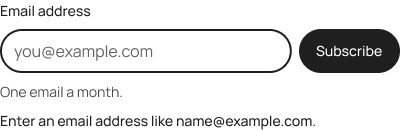
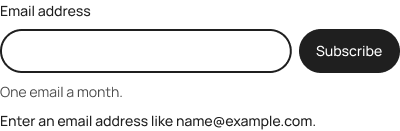
Field: no placeholders in examples, chars, prefix and suffix, optional, read-only

Changed region(s): [[0.03, 0.3359, 0.39, 0.458]]

diff --git a/src/react/primitives/Field.stories.tsx b/src/react/primitives/Field.stories.tsx
@@ -19,10 +19,18 @@ const meta = {
     },
     control: { control: "inline-radio", options: ["input", "textarea", "select"] },
     required: { control: "boolean" },
+    optional: { control: "boolean", description: "Marks the label (optional). Mark the minority of a form's fields." },
+    readOnly: { control: "boolean", description: "Readable, focusable, submitted, not editable. Prefer it to disabled when the value matters." },
+    prefix: { control: "text", description: "A short unit before the input; aria-hidden, so say it in the label too." },
+    suffix: { control: "text", description: "A short unit after the input; aria-hidden, so say it in the label too." },
+    chars: { control: "select", options: [undefined, 2, 3, 4, 5, 10, 20, 30], description: "Expected answer length in characters; sizes the control. Unset fills the container." },
     hint: { control: "text" },
     error: { control: "text" },
   },
-  args: { label: "Organisation", placeholder: "Acme Design Systems Group" },
+  /* No placeholder anywhere in these stories, on purpose: a placeholder
+     vanishes as soon as someone types, is not read by every screen reader and
+     usually fails contrast. Where the format needs explaining, that is a hint. */
+  args: { label: "Organisation" },
 } satisfies Meta<typeof Field>;
 
 export default meta;
@@ -101,17 +109,81 @@ export const Disabled: Story = {
 export const States: Story = {
   render: () => (
     <div data-shell="stack" data-gap="5" style={{ maxInlineSize: "26rem" }}>
-      <Field label="Default" placeholder="Placeholder" />
+      <Field label="Default" />
       <Field label="With hint" hint="Hint sits under the control." />
       <Field label="With error" defaultValue="bad" error="This field is required." />
+      <Field label="Optional" optional />
+      <Field label="Read-only" readOnly defaultValue="Can be read, not changed" hint="Set by your organisation." />
       <Field label="Disabled" disabled defaultValue="Locked" />
+    </div>
+  ),
+};
+
+/**
+ * The box is as big as the answer.
+ */
+export const Widths: Story = {
+  name: "Width by expected answer",
+  parameters: {
+    docs: {
+      description: {
+        story:
+          "`chars` sizes the control to the answer it expects: the box's size is a hint about the answer's size, so a year field that spans the page reads as asking for more than a year. Measured in the control's own font (ch), so it follows the pack. Leave it unset for answers of no fixed length (a name, an email address), which fill the container. Never wider than the container, so a phone stays usable.",
+      },
+    },
+  },
+  render: () => (
+    <div data-shell="stack" data-gap="5" style={{ maxInlineSize: "32rem" }}>
+      <Field label="Year of birth" chars={4} inputMode="numeric" autoComplete="bday-year" />
+      <Field label="Card security code" hint="The last 3 digits on the back of the card." chars={3} inputMode="numeric" autoComplete="cc-csc" />
+      <Field label="Postcode" chars={10} autoComplete="postal-code" />
+      <Field label="Phone number" chars={20} type="tel" autoComplete="tel" />
+      <Field label="Email address" type="email" autoComplete="email" />
+    </div>
+  ),
+};
+
+/**
+ * Units, attached to the input but outside it.
+ */
+export const PrefixSuffix: Story = {
+  name: "Prefix and suffix",
+  parameters: {
+    docs: {
+      description: {
+        story:
+          "`prefix` and `suffix` put a short unit beside the input: attached, sharing one outline, but a separate box on the sunken ground. They are hidden from screen readers so the unit is not read as part of the value, which is why each label here says the unit in words too. Keep them to a symbol or a short unit; anything longer is a hint.",
+      },
+    },
+  },
+  render: () => (
+    <div data-shell="stack" data-gap="5" style={{ maxInlineSize: "32rem" }}>
+      <Field label="Price, in dollars" prefix="$" chars={10} inputMode="decimal" />
+      <Field label="Weight, in kilograms" suffix="kg" chars={5} inputMode="decimal" />
+      <Field label="Discount, as a percentage" suffix="%" chars={3} inputMode="numeric" error="Enter a number from 0 to 100." />
+      <Field label="Website" prefix="https://" type="url" autoComplete="url" />
+    </div>
+  ),
+};
+
+/* For Figma: a price with a prefix and a weight with a suffix, at 320. */
+export const OnionSkinAffix: Story = {
+  name: "Onion skin: prefix and suffix (Figma)",
+  parameters: {
+    docs: { description: { story: "A prefixed and a suffixed field at 320px, for the Figma FieldAffix component to be laid over." } },
+    onion: { component: "FieldAffix", target: "root", skin: () => "default.png" },
+  },
+  render: () => (
+    <div data-shell="stack" data-gap="5" style={{ inlineSize: 320 }}>
+      <Field label="Price, in dollars" prefix="$" chars={10} />
+      <Field label="Weight, in kilograms" suffix="kg" chars={5} />
     </div>
   ),
 };
 
 export const OnionSkin: Story = {
   name: "Onion skin (Figma)",
-  args: { label: "Label", placeholder: "Placeholder" },
+  args: { label: "Label" },
   argTypes: { disabled: { control: "boolean" }, invalid: { control: "boolean" } } as never,
   parameters: {
     docs: { description: { story: "The Figma component laid over this one, at the 320px width the design was drawn at. Switch Onion in the toolbar; control, invalid and disabled pick the skin." } },

diff --git a/src/css/components/field.css b/src/css/components/field.css
@@ -44,6 +44,85 @@
     font-size: var(--tk-size-base);
   }
 
+  /* Width by expected answer.
+     data-chars=2|3|4|5|10|20|30 on the control.
+     The box's size is a hint about the answer's size (GOV.UK's fixed widths,
+     from the ds-corpus input brief). Measured in ch, the width of a zero in
+     the control's own font, so it follows the pack's type; plus the padding
+     and border the control already has. Never wider than its container. */
+  :where([data-tk="input"][data-chars], [data-tk="textarea"][data-chars], [data-tk="select"][data-chars]) {
+    inline-size: calc(var(--_chars) * 1ch + 2 * var(--tk-space-3) + 2px);
+    max-inline-size: 100%;
+  }
+  /* A select also carries its arrow. */
+  :where([data-tk="select"][data-chars]) {
+    inline-size: calc(var(--_chars) * 1ch + 2 * var(--tk-space-3) + 2px + 1.5rem);
+  }
+  :where([data-chars="2"]) { --_chars: 2; }
+  :where([data-chars="3"]) { --_chars: 3; }
+  :where([data-chars="4"]) { --_chars: 4; }
+  :where([data-chars="5"]) { --_chars: 5; }
+  :where([data-chars="10"]) { --_chars: 10; }
+  :where([data-chars="20"]) { --_chars: 20; }
+  :where([data-chars="30"]) { --_chars: 30; }
+
+  /* --- prefix and suffix -------------------------------------------------
+     data-tk="field-control" > [field-affix data-side=prefix] input [field-affix data-side=suffix]
+     The unit is attached to the input but is not inside it: it is a separate
+     box with the input's border, on the sunken ground, aria-hidden so a
+     screen reader does not read "$" as part of the value (GOV.UK's reason for
+     putting it outside; the ds-corpus input brief). The pair shares one
+     outline: the outer corners round, the corners where they meet are square. */
+  :where([data-tk="field-control"]) {
+    display: flex;
+    align-items: stretch;
+    max-inline-size: 100%;
+  }
+
+  :where([data-tk="field-control"] > [data-tk="input"], [data-tk="field-control"] > [data-tk="select"]) {
+    flex: 1 1 auto;
+    min-inline-size: 0;
+  }
+
+  :where([data-tk="field-control"] > [data-chars]) {
+    flex: 0 1 auto;
+  }
+
+  /* tk-default: data-side=prefix */
+  :where([data-tk="field-affix"]) {
+    display: flex;
+    align-items: center;
+    flex: 0 0 auto;
+    padding-inline: var(--tk-space-3);
+    border: 1px solid var(--tk-line-strong);
+    border-inline-end: 0;
+    border-start-start-radius: var(--tk-radius-nested);
+    border-end-start-radius: var(--tk-radius-nested);
+    background-color: var(--tk-surface-sunken);
+    color: var(--tk-text-secondary);
+    font-size: var(--tk-size-base);
+    white-space: nowrap;
+  }
+
+  :where([data-tk="field-affix"][data-side="suffix"]) {
+    border-inline-end: 1px solid var(--tk-line-strong);
+    border-inline-start: 0;
+    border-start-start-radius: 0;
+    border-end-start-radius: 0;
+    border-start-end-radius: var(--tk-radius-nested);
+    border-end-end-radius: var(--tk-radius-nested);
+  }
+
+  :where([data-tk="field-affix"][data-side="prefix"] + :is([data-tk="input"], [data-tk="select"])) {
+    border-start-start-radius: 0;
+    border-end-start-radius: 0;
+  }
+
+  :where([data-tk="field-control"] > :is([data-tk="input"], [data-tk="select"]):has(+ [data-side="suffix"])) {
+    border-start-end-radius: 0;
+    border-end-end-radius: 0;
+  }
+
   :where([data-tk="textarea"]) {
     min-block-size: 6rem;
     resize: vertical;
@@ -59,6 +138,24 @@
          [data-tk="select"][aria-invalid="true"]) {
     border-width: 2px;
     border-color: var(--tk-status-danger-line);
+  }
+
+  /* "(optional)" is part of the label and reads with it; quieter, not smaller. */
+  :where([data-tk="field-optional"]) {
+    font-weight: var(--tk-weight-normal);
+    color: var(--tk-text-secondary);
+  }
+
+  /* Read-only: there to be read, not changed. Full-contrast text (unlike
+     disabled), still focusable and still submitted, and visibly not an input:
+     no ground of its own and a dashed edge, so it does not invite typing.
+     Prefer it to disabled whenever the reader needs the value (GOV.UK, Carbon;
+     the ds-corpus input brief). Selects have no read-only state in HTML. */
+  :where([data-tk="input"][readonly], [data-tk="textarea"][readonly]) {
+    background-color: transparent;
+    border-style: dashed;
+    color: var(--tk-text-primary);
+    cursor: default;
   }
 
   :where([data-tk="input"]:disabled,

diff --git a/src/react/primitives/Field.tsx b/src/react/primitives/Field.tsx
@@ -26,7 +26,29 @@ type Shared = {
   error?: string;
   /** Progressive required marking — text + asterisk, not colour alone. */
   required?: boolean;
+  /**
+   * Marks the label "(optional)" instead. Mark the minority: when most of a
+   * form's fields are required, mark the few that are optional; when most are
+   * optional, mark the required ones. Ignored if `required` is set.
+   */
+  optional?: boolean;
   control?: FieldControl;
+  /**
+   * How many characters the answer is expected to be. Sizes the control to
+   * fit it (a year is 4, a postcode 10, a phone number 20), because the box's
+   * size is a hint about the answer's size. Leave it out to fill the
+   * container. Never wider than the container.
+   */
+  chars?: 2 | 3 | 4 | 5 | 10 | 20 | 30;
+  /**
+   * A short unit before the input ("$", "£") or after it ("kg", "%"). Drawn
+   * attached to the input but outside it, and hidden from screen readers so
+   * it is not read as part of the value: say the unit in the label or hint
+   * too ("Price, in dollars"). Short only; anything longer is a hint. Inputs
+   * and selects, not textareas.
+   */
+  prefix?: string;
+  suffix?: string;
   options?: FieldOption[];
   children?: ReactNode;
 };
@@ -58,7 +80,11 @@ export function Field({
   hint,
   error,
   required,
+  optional,
   control = "input",
+  chars,
+  prefix,
+  suffix,
   options,
   children,
   ...rest
@@ -72,6 +98,7 @@ export function Field({
     id,
     "aria-describedby": describedBy,
     "aria-invalid": error ? true : undefined,
+    "data-chars": chars,
     required,
     ...rest,
   };
@@ -95,11 +122,29 @@ export function Field({
     controlNode = <input data-tk="input" {...controlProps} />;
   }
 
+  if ((prefix || suffix) && !children && control !== "textarea") {
+    controlNode = (
+      <div data-tk="field-control">
+        {prefix ? (
+          <span data-tk="field-affix" data-side="prefix" aria-hidden="true">
+            {prefix}
+          </span>
+        ) : null}
+        {controlNode}
+        {suffix ? (
+          <span data-tk="field-affix" data-side="suffix" aria-hidden="true">
+            {suffix}
+          </span>
+        ) : null}
+      </div>
+    );
+  }
+
   return (
     <div data-tk="field">
       <label data-tk="field-label" htmlFor={id}>
         {label}
-        {required ? <RequiredMark /> : null}
+        {required ? <RequiredMark /> : optional ? <span data-tk="field-optional"> (optional)</span> : null}
       </label>
       {controlNode}
       {hint ? (

diff --git a/src/react/primitives/InlineForm.stories.tsx b/src/react/primitives/InlineForm.stories.tsx
@@ -15,7 +15,6 @@ const meta = {
   args: {
     label: "Email address",
     submitLabel: "Subscribe",
-    placeholder: "you@example.com",
     onSubmit: (e) => e.preventDefault(),
   },
   argTypes: {
